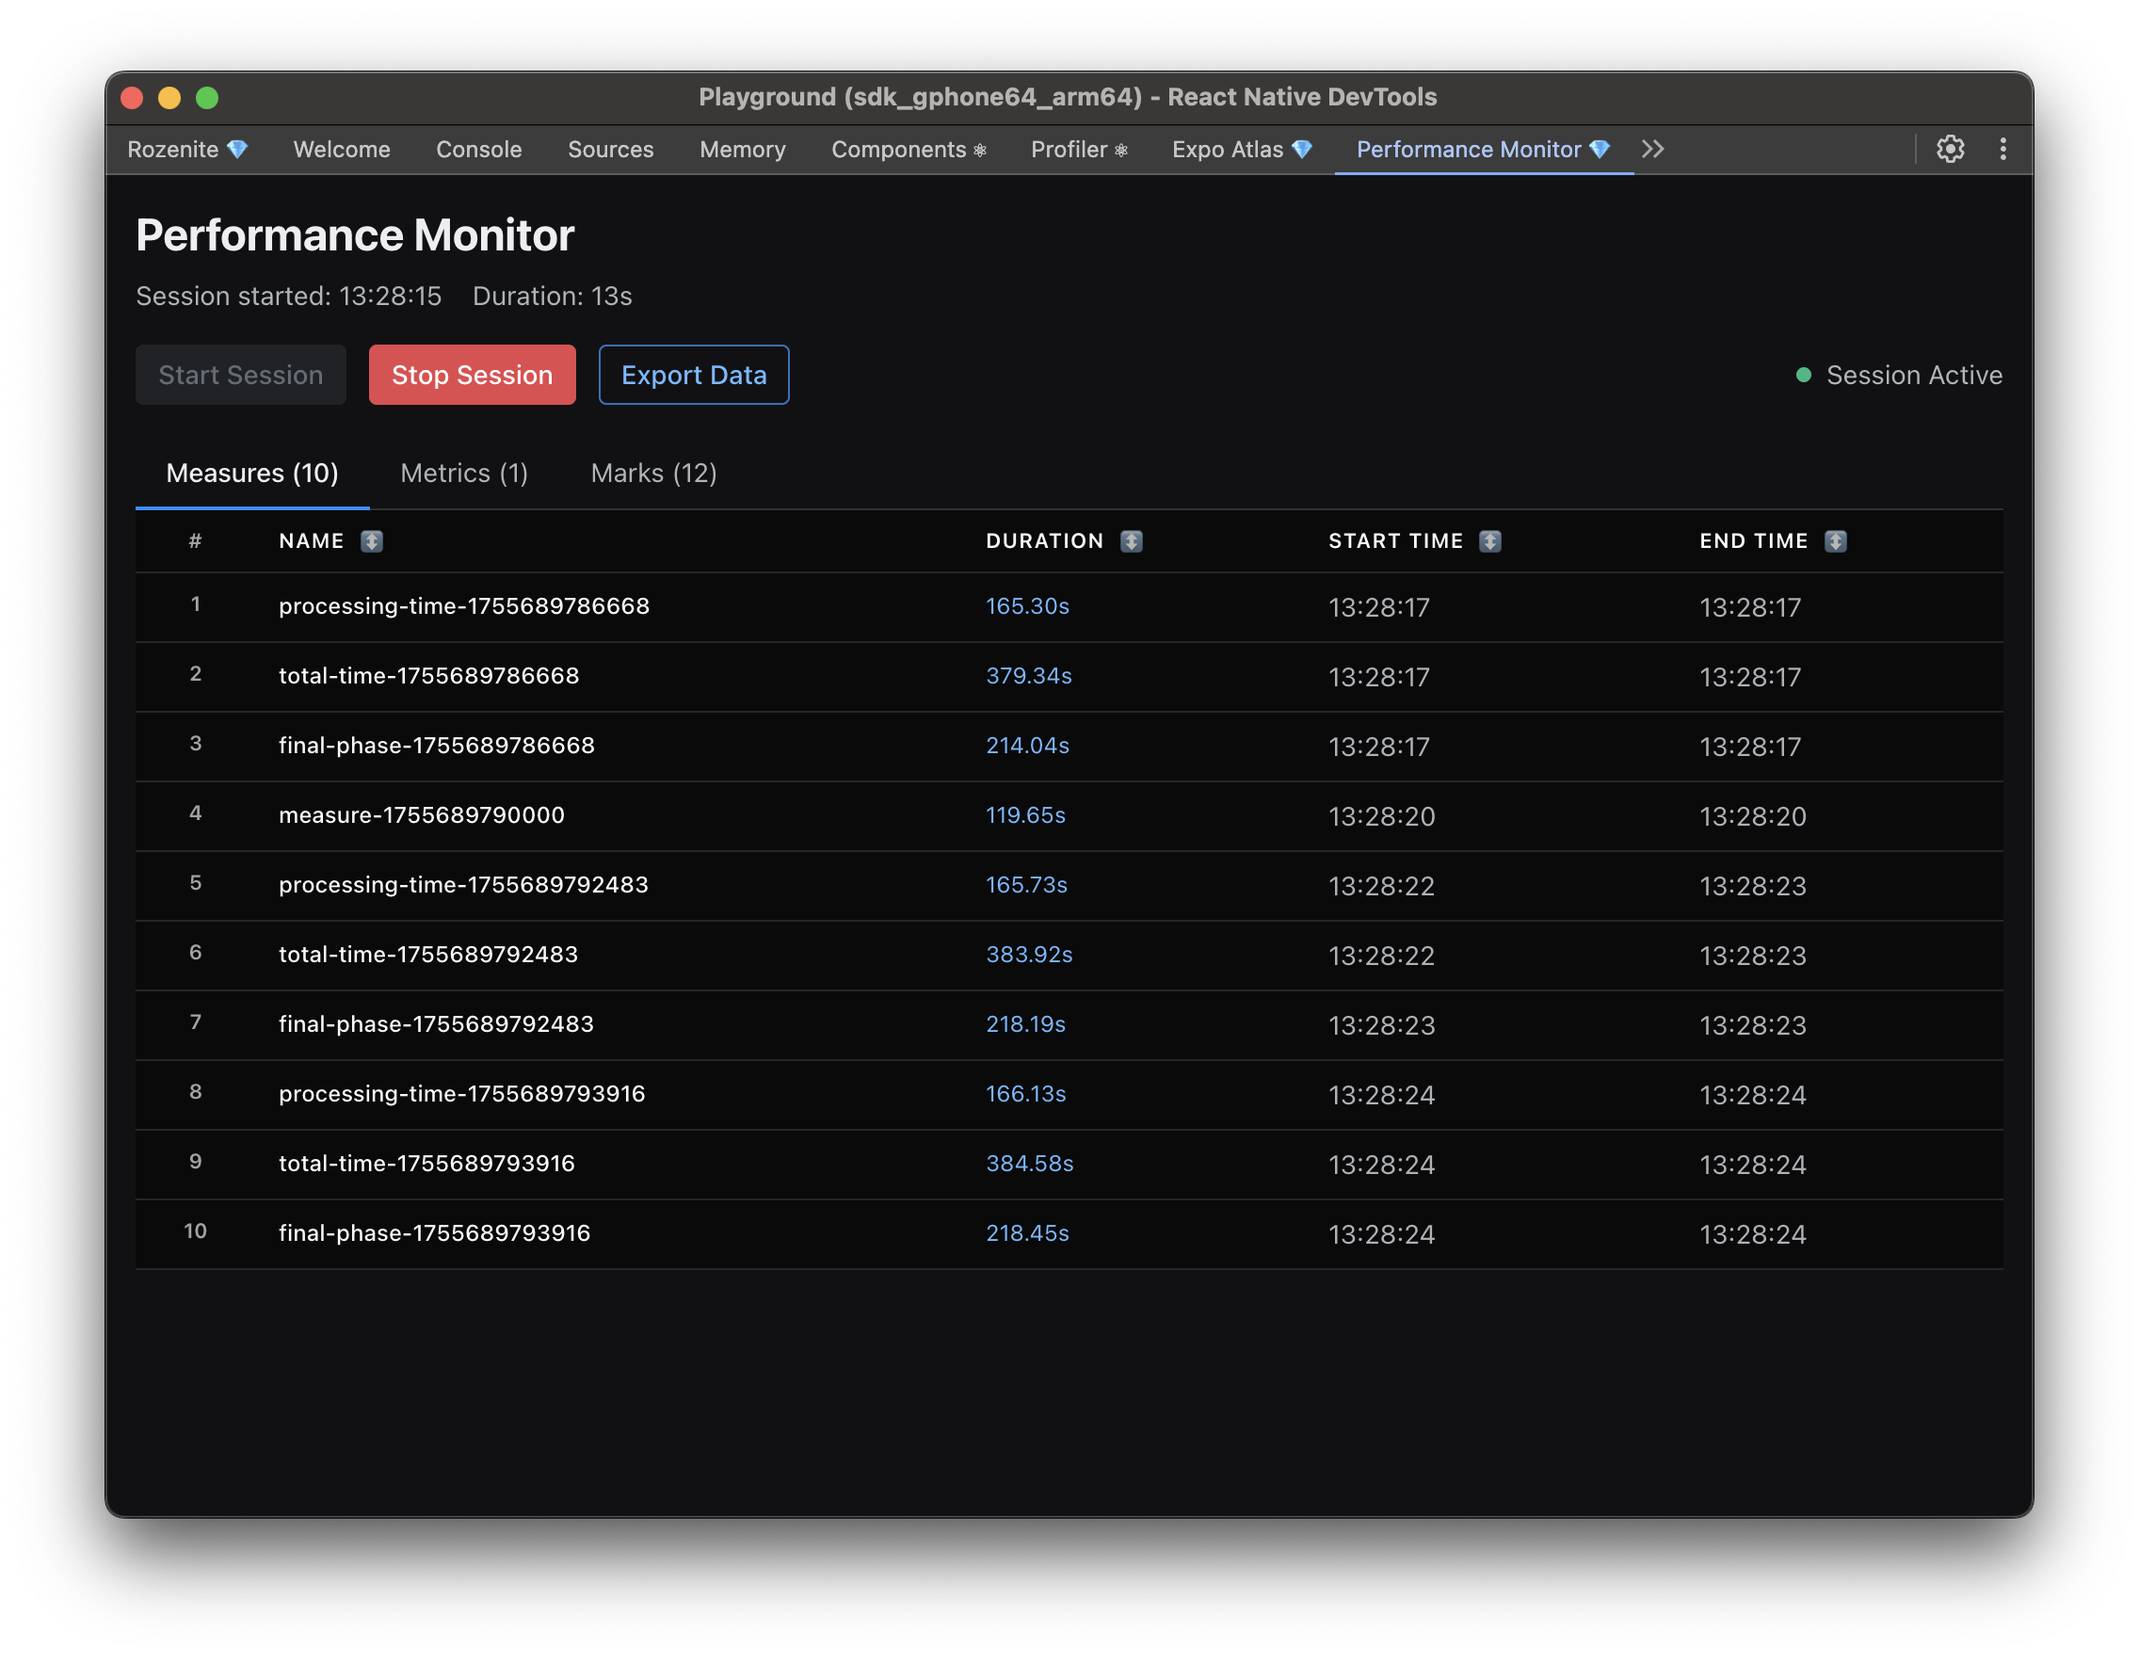
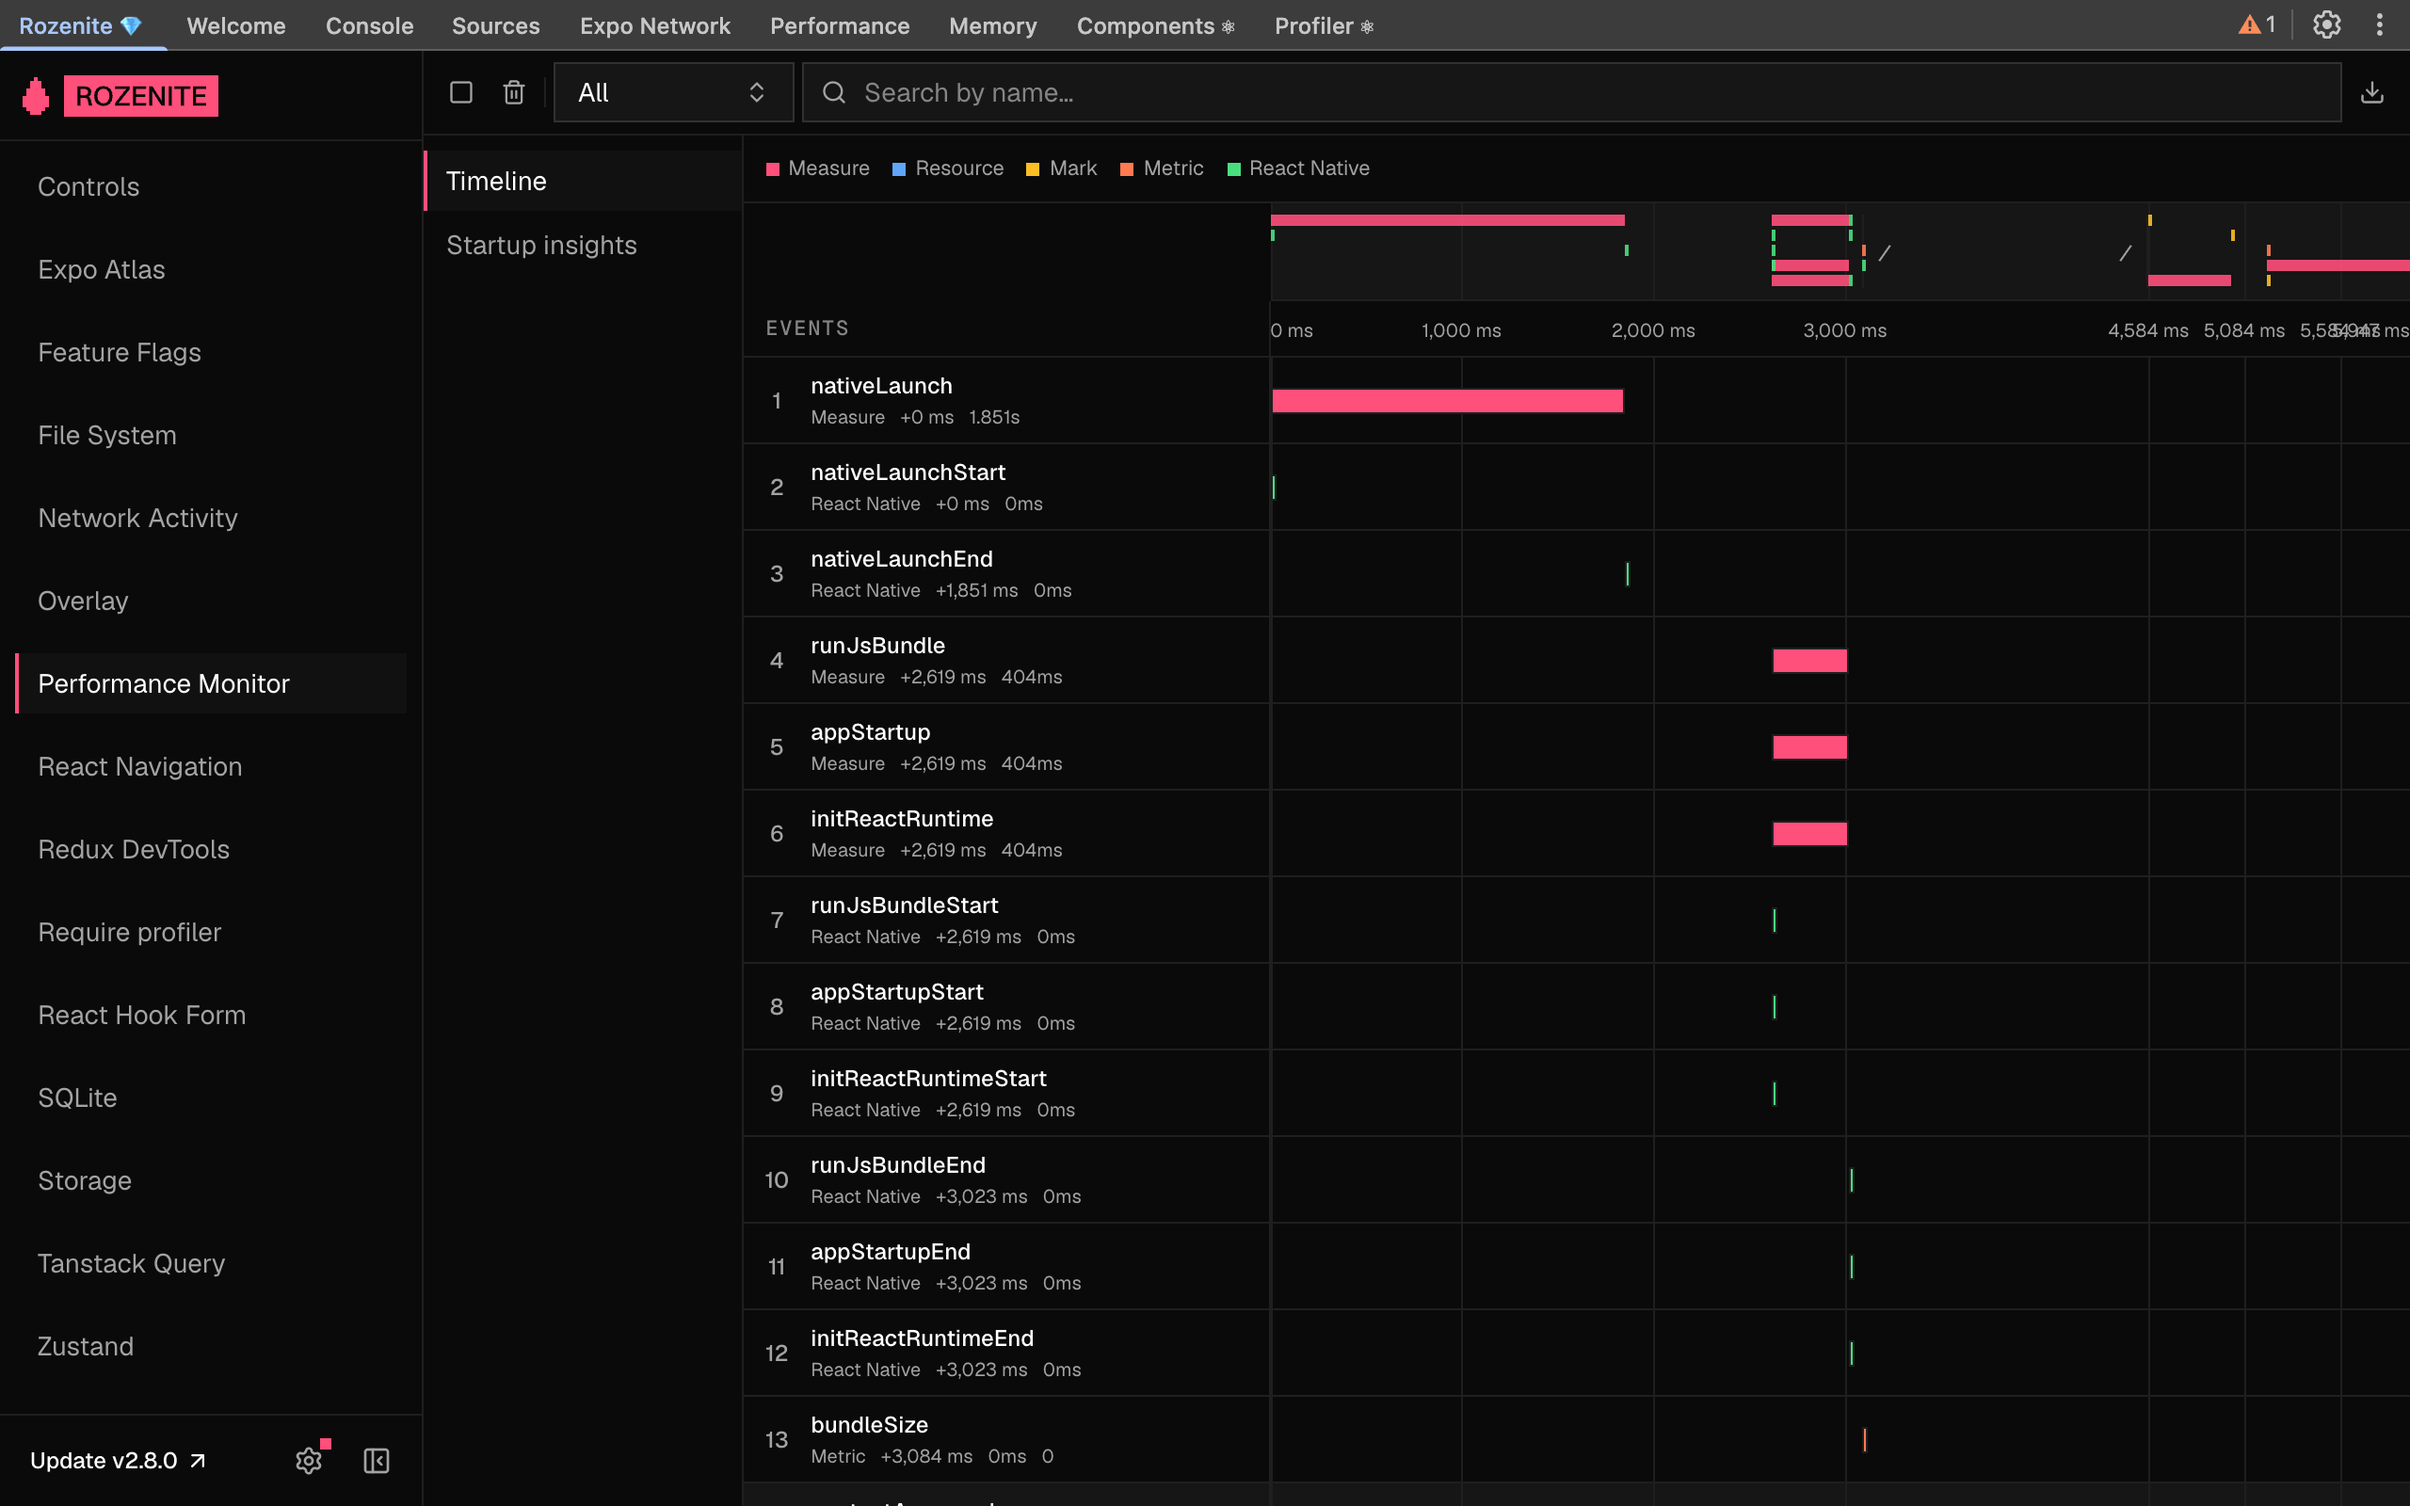
feat(website): retake plugin panel screenshots and link the directory to docs (#591)
## Description

- Every official plugin's panel screenshot is retaken in the current
React Native DevTools UI.
- Zustand, Storage, File System, Feature Flags and Overlay docs pages
now show a screenshot. The first four are new; Overlay's existing image
is retaken.
- In the plugin directory, each official plugin's cell links to its docs
page, next to GitHub and npm.
- The Storage cell on the home page now mentions react-native-keychain.
- `docs/DESIGN.md` gets a short "Panel screenshots" section: size, theme
and the file names to keep stable.

## Related Issue

Closes https://github.com/callstackincubator/rozenite/issues/589

## Context

- This replaces #590, which also added a page per plugin at
`/plugins/<slug>`. Those pages mostly restated the docs pages, and
keeping them in step needed a second copy of the content in frontmatter
plus regex parsing of the MDX, so they are dropped. #589 is reworded to
match.
- The screenshot file names are unchanged, so the package READMEs that
load `rozenite.dev/<name>-plugin.png` pick up the new images on the next
deploy.
- The screenshots show the real React Native DevTools at 1280×800 and
2x, captured from the playground on the iOS simulator. Panels were
filled through the plugins' agent tools. For Expo Atlas, the playground
Metro config temporarily used `withRozeniteExpoAtlasPlugin` (not in this
PR), and the API responses were rewritten so the treemap shows
`/rozenite` instead of a local path.
[…]

diff --git a/website/src/site/content.ts b/website/src/site/content.ts
@@ -99,7 +99,7 @@ export const plugins: Plugin[] = [
   {
     name: 'Storage',
     pkg: '@rozenite/storage-plugin',
-    about: 'MMKV, AsyncStorage and Expo SecureStore in one panel.',
+    about: 'MMKV, AsyncStorage, Expo SecureStore and react-native-keychain in one panel.',
     icon: 'database',
     href: '/docs/official-plugins/storage',
   },

diff --git a/docs/DESIGN.md b/docs/DESIGN.md
@@ -373,6 +373,13 @@ human and a terminal for the agent, both live at once.
 Pages outside the home page (plugin directory, welcome page, 404) use the same shell, nav and
 footer. The welcome page is shown inside DevTools, so every link on it opens a new tab.
 
+## Panel screenshots
+
+Each official plugin's docs page shows its panel from `website/public/<name>-plugin.png`, and the
+package READMEs load the same file from `rozenite.dev/<name>-plugin.png`, so keep the file names stable.
+Screenshots are 1280×800 at 2x of the real React Native DevTools window, dark, with the console
+drawer closed, filled with playground data.
+
 ## 404 page
 
 The hollow crystals scene fills the first screen behind a solid card: a `404` accent chip and
